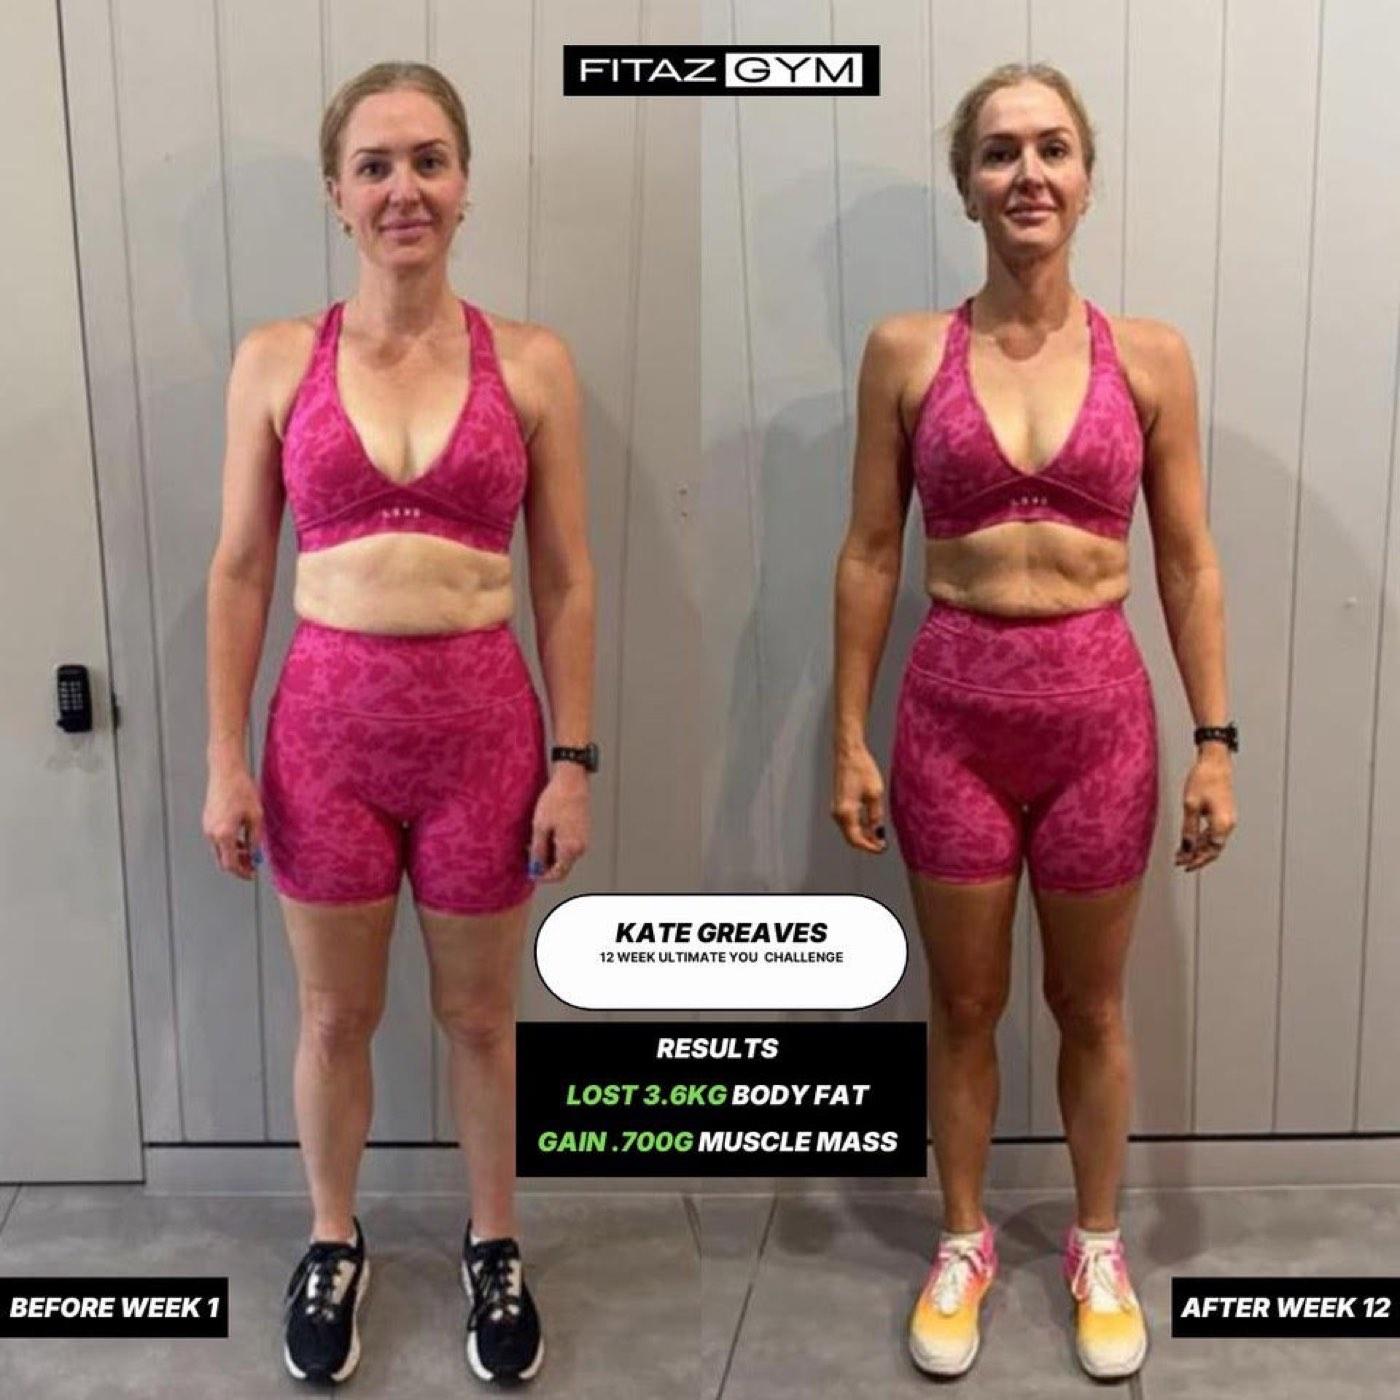
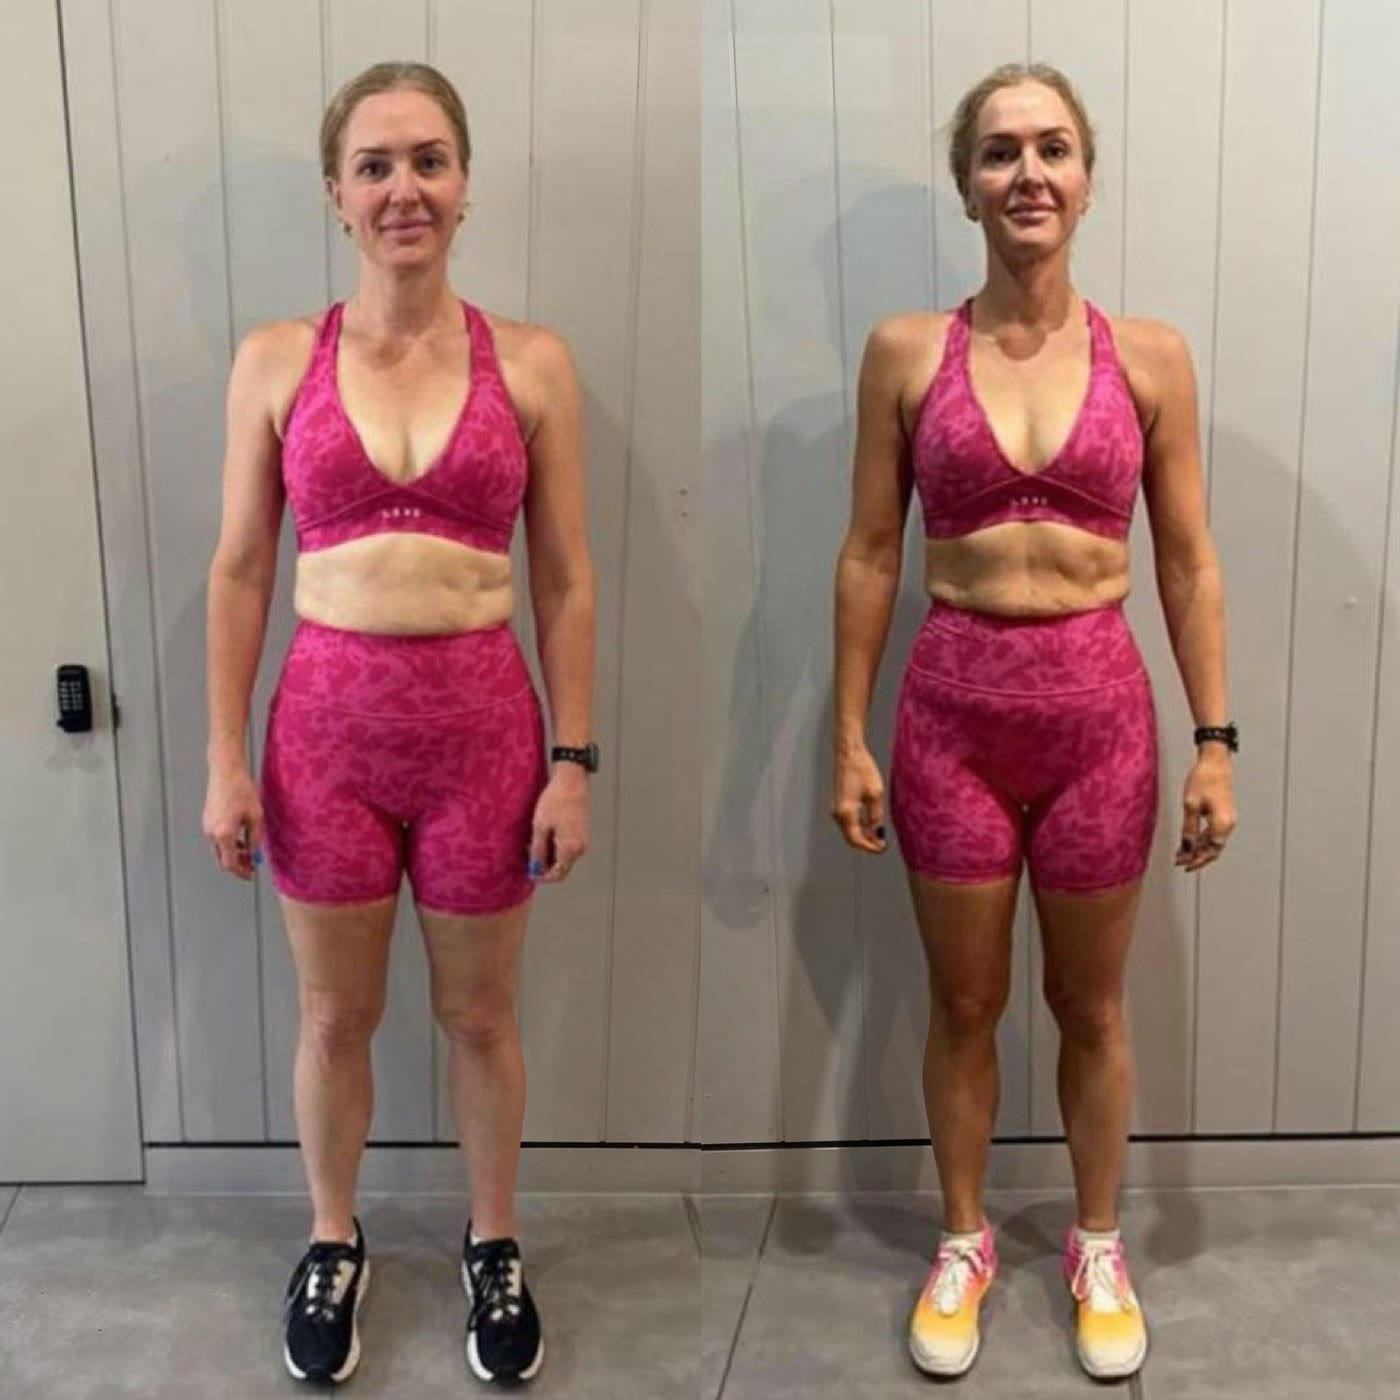
Branded results cards

diff --git a/body-scan.html b/body-scan.html
@@ -61,7 +61,7 @@
 </div></section>
 <section class="sec results"><div class="wrap">
   <div class="head2" data-rv><h2>Member results after 12 weeks</h2><p class="lede">Results from our 12 Week Ultimate You Challenge, measured on the InBody scanner.</p></div>
-  <div class="rail res" tabindex="0" aria-label="Member results"><figure class="res-card"><img src="img/results/grant.jpg" alt="Grant: before and after the 12 Week Ultimate You Challenge" ><figcaption><b>Grant</b><span>Lost 9.6 kg of body fat. Gained 2.9 kg of muscle.</span></figcaption></figure><figure class="res-card"><img src="img/results/kate.jpg" alt="Kate: before and after the 12 Week Ultimate You Challenge" ><figcaption><b>Kate</b><span>Lost 3.6 kg of body fat.</span></figcaption></figure><figure class="res-card"><img src="img/results/thomas.jpg" alt="Thomas: before and after the 12 Week Ultimate You Challenge" ><figcaption><b>Thomas</b><span>Lost 8.6 kg of body fat.</span></figcaption></figure><figure class="res-card"><img src="img/results/rachel.jpg" alt="Rachel: before and after the 12 Week Ultimate You Challenge" ><figcaption><b>Rachel</b><span>Lost 3.3 kg of body fat.</span></figcaption></figure><figure class="res-card"><img src="img/results/james.jpg" alt="James: before and after the 12 Week Ultimate You Challenge" ><figcaption><b>James</b><span>Lost 5 kg of body fat.</span></figcaption></figure></div>
+  <div class="rail res" tabindex="0" aria-label="Member results"><figure class="res-card"><div class="res-pic"><img src="img/results/grant.jpg" alt="Grant: before and after the 12 Week Ultimate You Challenge" ><span class="res-logo"><img src="img/logo-white.svg" alt="" width="84" height="14"></span><span class="res-tag l">Week 1</span><span class="res-tag r">Week 12</span></div><figcaption><b>Grant</b><span>Lost 9.6 kg of body fat. Gained 2.9 kg of muscle.</span></figcaption></figure><figure class="res-card"><div class="res-pic"><img src="img/results/kate.jpg" alt="Kate: before and after the 12 Week Ultimate You Challenge" ><span class="res-logo"><img src="img/logo-white.svg" alt="" width="84" height="14"></span><span class="res-tag l">Week 1</span><span class="res-tag r">Week 12</span></div><figcaption><b>Kate</b><span>Lost 3.6 kg of body fat.</span></figcaption></figure><figure class="res-card"><div class="res-pic"><img src="img/results/thomas.jpg" alt="Thomas: before and after the 12 Week Ultimate You Challenge" ><span class="res-logo"><img src="img/logo-white.svg" alt="" width="84" height="14"></span><span class="res-tag l">Week 1</span><span class="res-tag r">Week 12</span></div><figcaption><b>Thomas</b><span>Lost 8.6 kg of body fat.</span></figcaption></figure><figure class="res-card"><div class="res-pic"><img src="img/results/rachel.jpg" alt="Rachel: before and after the 12 Week Ultimate You Challenge" ><span class="res-logo"><img src="img/logo-white.svg" alt="" width="84" height="14"></span><span class="res-tag l">Week 1</span><span class="res-tag r">Week 12</span></div><figcaption><b>Rachel</b><span>Lost 3.3 kg of body fat.</span></figcaption></figure><figure class="res-card"><div class="res-pic"><img src="img/results/james.jpg" alt="James: before and after the 12 Week Ultimate You Challenge" ><span class="res-logo"><img src="img/logo-white.svg" alt="" width="84" height="14"></span><span class="res-tag l">Week 1</span><span class="res-tag r">Week 12</span></div><figcaption><b>James</b><span>Lost 5 kg of body fat.</span></figcaption></figure></div>
   <div class="rowsb"><p class="fine">Individual results from members who completed the challenge. Your results will vary.</p><div class="rail-nav"><button data-d="prev" aria-label="Previous results">←</button><button data-d="next" aria-label="More results">→</button></div></div>
 </div></section>
 <section class="proofbar inpage"><div class="wrap"><div class="press "><span class="lab">As seen in</span><div class="ptrack-wrap"><div class="ptrack"><img src="img/press/7news.png" alt="7NEWS" ><img src="img/press/daily-mail.png" alt="Daily Mail" ><img src="img/press/courier-mail.png" alt="The Courier-Mail" ><img src="img/press/nova.png" alt="Nova" ><img src="img/press/studio-10.png" alt="Studio 10" ><img src="img/press/style-magazine.png" alt="Style Magazine" ><span class="ptxt">Urban List</span><span class="dup" aria-hidden="true"><img src="img/press/7news.png" alt="7NEWS" ><img src="img/press/daily-mail.png" alt="Daily Mail" ><img src="img/press/courier-mail.png" alt="The Courier-Mail" ><img src="img/press/nova.png" alt="Nova" ><img src="img/press/studio-10.png" alt="Studio 10" ><img src="img/press/style-magazine.png" alt="Style Magazine" ><span class="ptxt">Urban List</span></span></div></div></div></div></section>

diff --git a/classes.html b/classes.html
@@ -73,7 +73,7 @@
 </div></section>
 <section class="sec results"><div class="wrap">
   <div class="head2" data-rv><h2>Member results after 12 weeks</h2><p class="lede">Results from our 12 Week Ultimate You Challenge, measured on the InBody scanner.</p></div>
-  <div class="rail res" tabindex="0" aria-label="Member results"><figure class="res-card"><img src="img/results/grant.jpg" alt="Grant: before and after the 12 Week Ultimate You Challenge" ><figcaption><b>Grant</b><span>Lost 9.6 kg of body fat. Gained 2.9 kg of muscle.</span></figcaption></figure><figure class="res-card"><img src="img/results/kate.jpg" alt="Kate: before and after the 12 Week Ultimate You Challenge" ><figcaption><b>Kate</b><span>Lost 3.6 kg of body fat.</span></figcaption></figure><figure class="res-card"><img src="img/results/thomas.jpg" alt="Thomas: before and after the 12 Week Ultimate You Challenge" ><figcaption><b>Thomas</b><span>Lost 8.6 kg of body fat.</span></figcaption></figure><figure class="res-card"><img src="img/results/rachel.jpg" alt="Rachel: before and after the 12 Week Ultimate You Challenge" ><figcaption><b>Rachel</b><span>Lost 3.3 kg of body fat.</span></figcaption></figure><figure class="res-card"><img src="img/results/james.jpg" alt="James: before and after the 12 Week Ultimate You Challenge" ><figcaption><b>James</b><span>Lost 5 kg of body fat.</span></figcaption></figure></div>
+  <div class="rail res" tabindex="0" aria-label="Member results"><figure class="res-card"><div class="res-pic"><img src="img/results/grant.jpg" alt="Grant: before and after the 12 Week Ultimate You Challenge" ><span class="res-logo"><img src="img/logo-white.svg" alt="" width="84" height="14"></span><span class="res-tag l">Week 1</span><span class="res-tag r">Week 12</span></div><figcaption><b>Grant</b><span>Lost 9.6 kg of body fat. Gained 2.9 kg of muscle.</span></figcaption></figure><figure class="res-card"><div class="res-pic"><img src="img/results/kate.jpg" alt="Kate: before and after the 12 Week Ultimate You Challenge" ><span class="res-logo"><img src="img/logo-white.svg" alt="" width="84" height="14"></span><span class="res-tag l">Week 1</span><span class="res-tag r">Week 12</span></div><figcaption><b>Kate</b><span>Lost 3.6 kg of body fat.</span></figcaption></figure><figure class="res-card"><div class="res-pic"><img src="img/results/thomas.jpg" alt="Thomas: before and after the 12 Week Ultimate You Challenge" ><span class="res-logo"><img src="img/logo-white.svg" alt="" width="84" height="14"></span><span class="res-tag l">Week 1</span><span class="res-tag r">Week 12</span></div><figcaption><b>Thomas</b><span>Lost 8.6 kg of body fat.</span></figcaption></figure><figure class="res-card"><div class="res-pic"><img src="img/results/rachel.jpg" alt="Rachel: before and after the 12 Week Ultimate You Challenge" ><span class="res-logo"><img src="img/logo-white.svg" alt="" width="84" height="14"></span><span class="res-tag l">Week 1</span><span class="res-tag r">Week 12</span></div><figcaption><b>Rachel</b><span>Lost 3.3 kg of body fat.</span></figcaption></figure><figure class="res-card"><div class="res-pic"><img src="img/results/james.jpg" alt="James: before and after the 12 Week Ultimate You Challenge" ><span class="res-logo"><img src="img/logo-white.svg" alt="" width="84" height="14"></span><span class="res-tag l">Week 1</span><span class="res-tag r">Week 12</span></div><figcaption><b>James</b><span>Lost 5 kg of body fat.</span></figcaption></figure></div>
   <div class="rowsb"><p class="fine">Individual results from members who completed the challenge. Your results will vary.</p><div class="rail-nav"><button data-d="prev" aria-label="Previous results">←</button><button data-d="next" aria-label="More results">→</button></div></div>
 </div></section>
 <section class="proofbar inpage"><div class="wrap"><div class="press "><span class="lab">As seen in</span><div class="ptrack-wrap"><div class="ptrack"><img src="img/press/7news.png" alt="7NEWS" ><img src="img/press/daily-mail.png" alt="Daily Mail" ><img src="img/press/courier-mail.png" alt="The Courier-Mail" ><img src="img/press/nova.png" alt="Nova" ><img src="img/press/studio-10.png" alt="Studio 10" ><img src="img/press/style-magazine.png" alt="Style Magazine" ><span class="ptxt">Urban List</span><span class="dup" aria-hidden="true"><img src="img/press/7news.png" alt="7NEWS" ><img src="img/press/daily-mail.png" alt="Daily Mail" ><img src="img/press/courier-mail.png" alt="The Courier-Mail" ><img src="img/press/nova.png" alt="Nova" ><img src="img/press/studio-10.png" alt="Studio 10" ><img src="img/press/style-magazine.png" alt="Style Magazine" ><span class="ptxt">Urban List</span></span></div></div></div></div></section>

diff --git a/site.css b/site.css
@@ -1463,3 +1463,14 @@ h3 { font-size: clamp(19px, 2.2vw, 24px); }
 /* Trainer profile: Instagram logo and handle, linked to their profile (27 Nov 2026). */
 .tcontact a.ig { gap: 8px; text-decoration: none; font-weight: 600; }
 .tcontact a.ig span { text-decoration: underline; text-underline-offset: 4px; }
+
+/* Member results (27 Nov 2026): one branded card for every before and after. The photos carry no text of their own;
+   the logo, the Week 1 and Week 12 tags and the dividing line are drawn here, so all five match. */
+.res-pic { position: relative; display: block; background: #0b0b0c; }
+.res-pic > img, .res-pic > picture > img { display: block; width: 100%; aspect-ratio: 1; object-fit: cover; }
+.res-pic::after { content: ""; position: absolute; top: 0; bottom: 0; left: 50%; width: 3px; margin-left: -1.5px; background: #fff; }
+.res-logo { position: absolute; z-index: 1; top: 12px; left: 50%; transform: translateX(-50%); display: flex; align-items: center; padding: 8px 13px; border-radius: 999px; background: #0b0b0c; }
+.res-logo img { display: block; width: 84px; height: auto; aspect-ratio: auto; }
+.res-card .res-tag { position: absolute; z-index: 1; bottom: 12px; padding: 8px 12px; border-radius: 999px; font: 700 12px/1 var(--body); letter-spacing: .08em; text-transform: uppercase; background: #0b0b0c; color: #fff; }
+.res-tag.l { left: 12px; }
+.res-card .res-tag.r { right: 12px; background: var(--accent); color: var(--accent-ink); }
